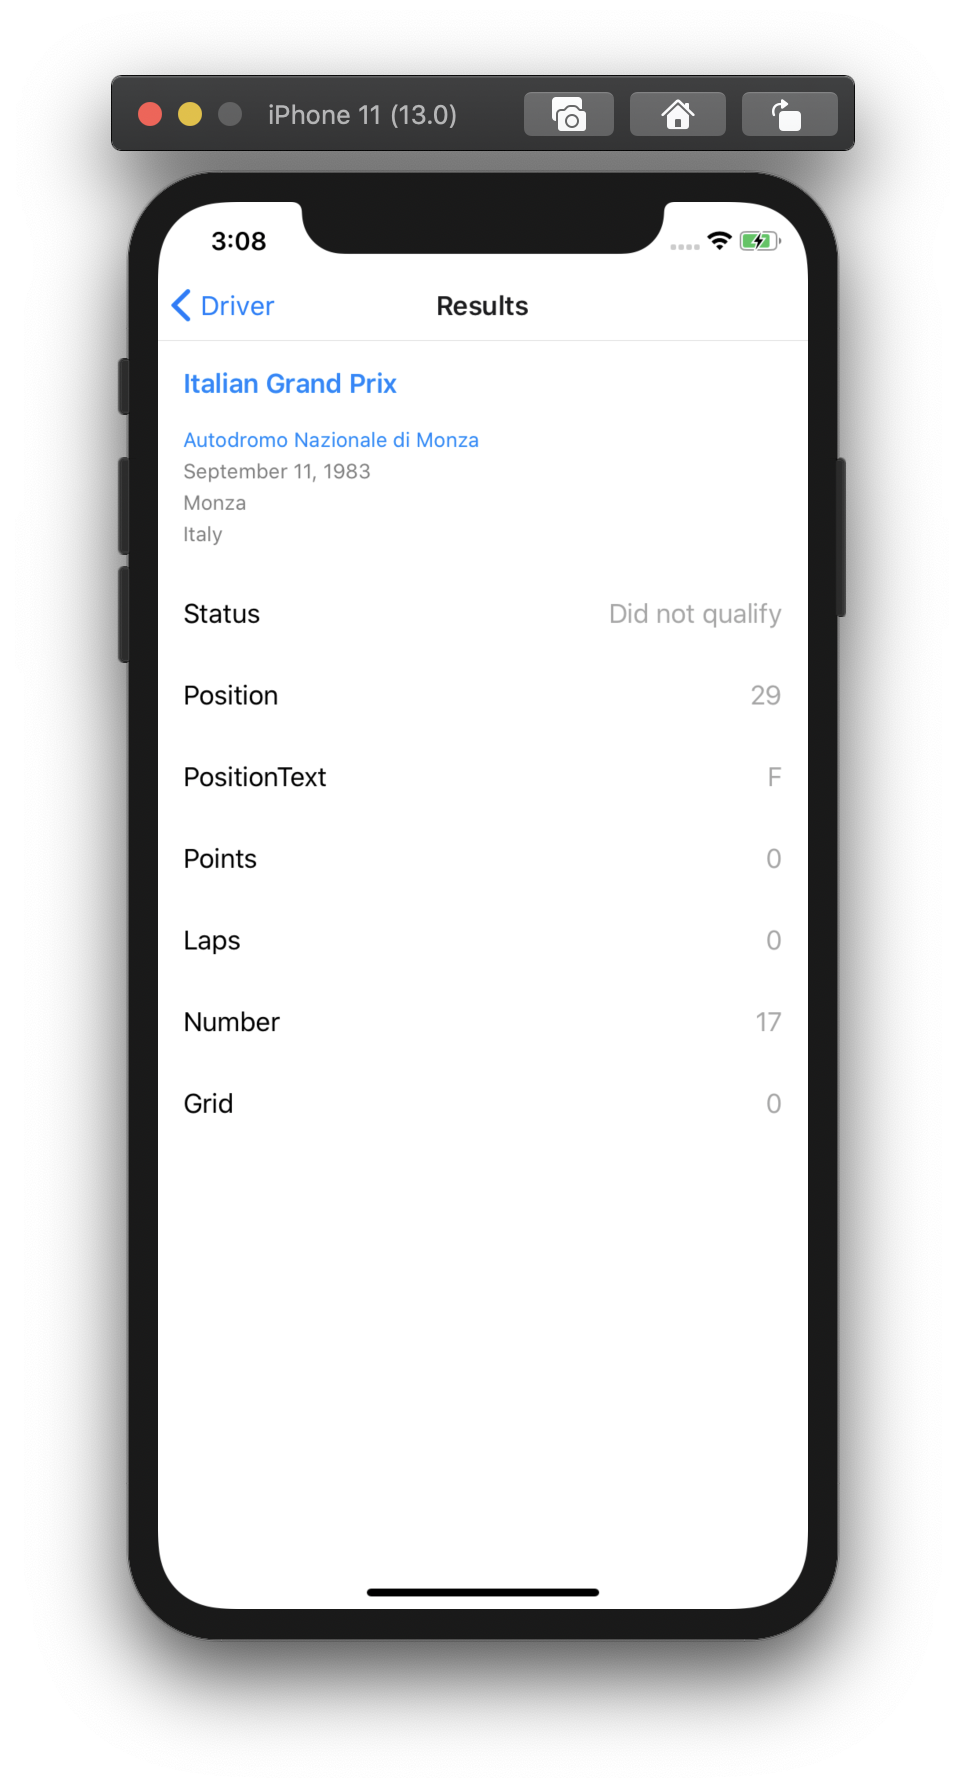
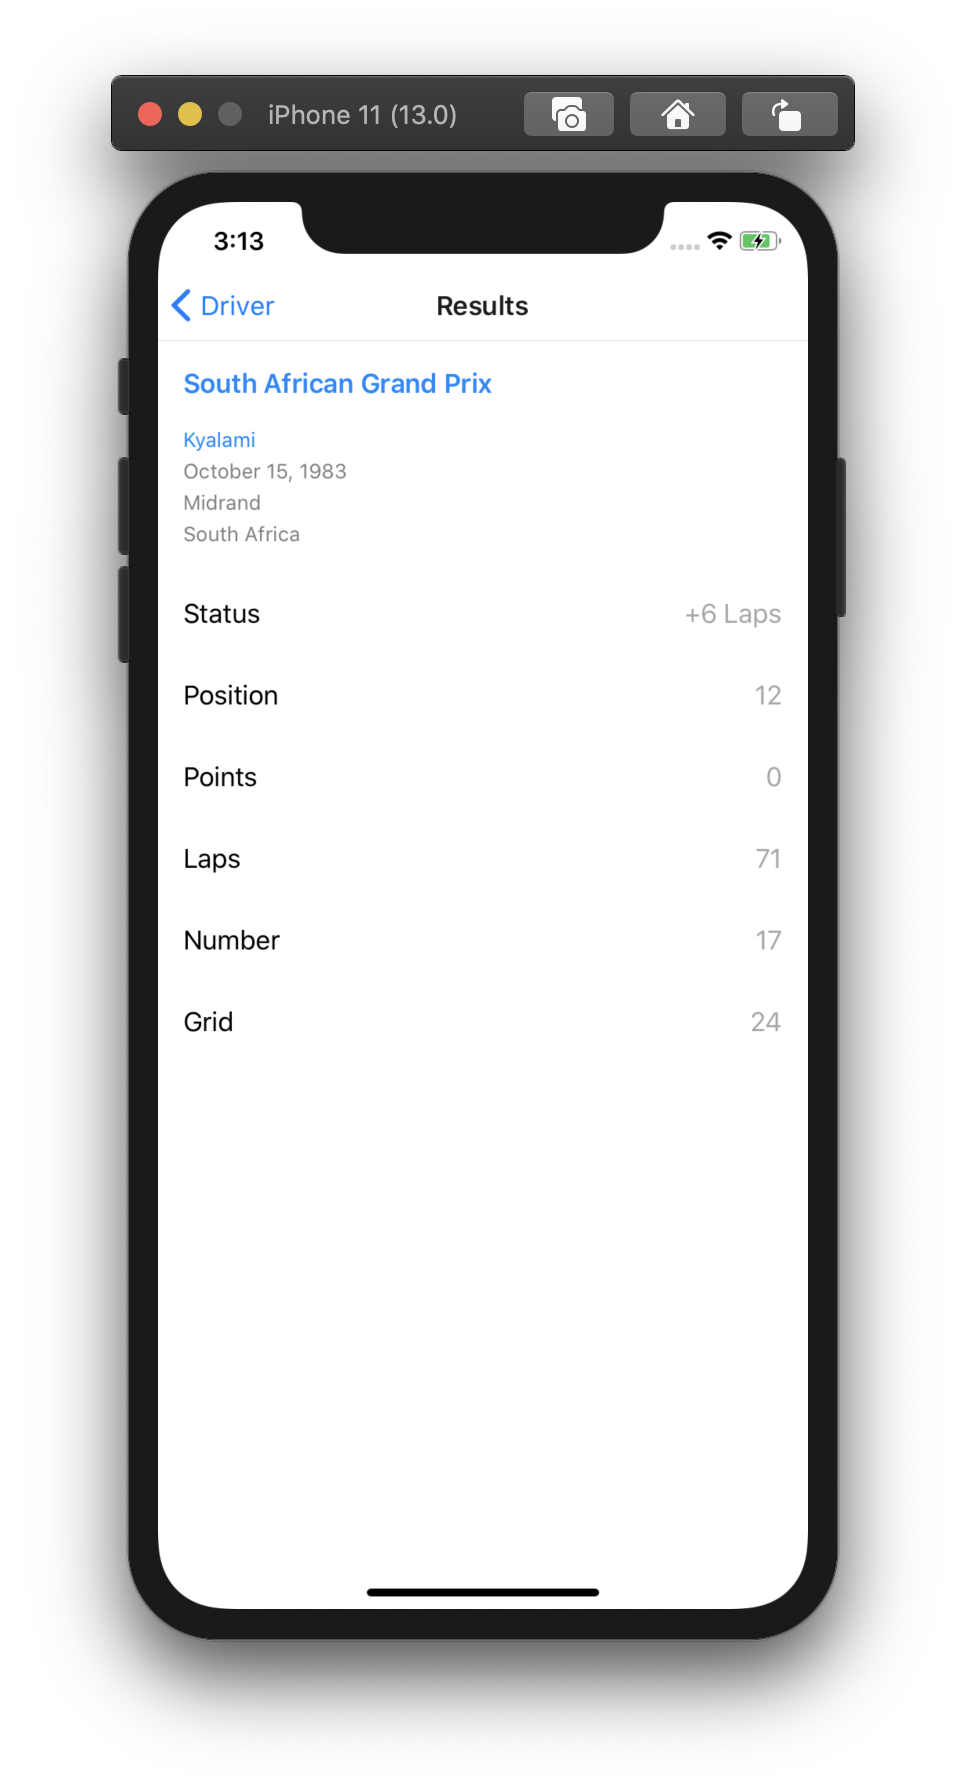
➖ Remove unused field

diff --git a/src/components/containers/Results/elements/ResultItem.tsx b/src/components/containers/Results/elements/ResultItem.tsx
@@ -7,18 +7,15 @@ type ResultItemProps = {
   result: Result;
 };
 
-const ResultItem: React.FC<ResultItemProps> = ({ result }) => {
-  return (
-    <View>
-      <HorizontalListItem title={'Status'} value={result.status} />
-      <HorizontalListItem title={'Position'} value={result.position} />
-      <HorizontalListItem title={'PositionText'} value={result.positionText} />
-      <HorizontalListItem title={'Points'} value={result.points} />
-      <HorizontalListItem title={'Laps'} value={result.laps} />
-      <HorizontalListItem title={'Number'} value={result.number} />
-      <HorizontalListItem title={'Grid'} value={result.grid} />
-    </View>
-  );
-};
+const ResultItem: React.FC<ResultItemProps> = ({ result }) => (
+  <View>
+    <HorizontalListItem title={'Status'} value={result.status} />
+    <HorizontalListItem title={'Position'} value={result.positionText || result.position} />
+    <HorizontalListItem title={'Points'} value={result.points} />
+    <HorizontalListItem title={'Laps'} value={result.laps} />
+    <HorizontalListItem title={'Number'} value={result.number} />
+    <HorizontalListItem title={'Grid'} value={result.grid} />
+  </View>
+);
 
 export default ResultItem;
